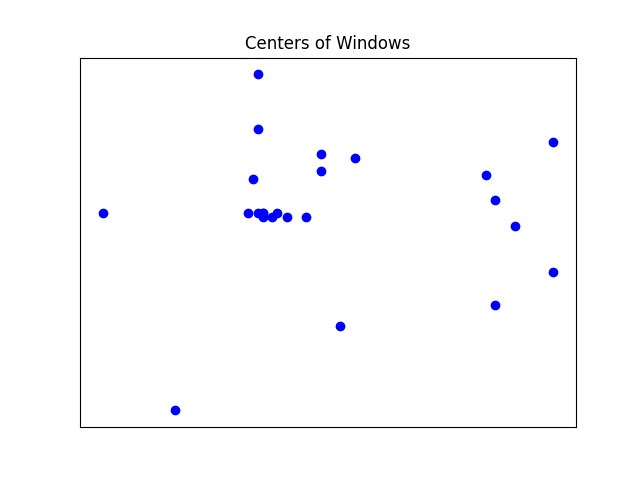
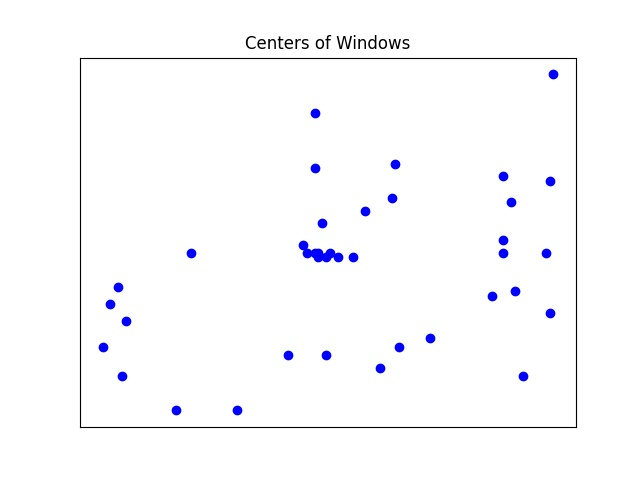
updated centers

diff --git a/locations.py b/locations.py
@@ -11,18 +11,31 @@ xs, ys = [], []
 for folder in os.listdir(labels_folder):
     if folder != '.DS_Store':
         for filename in os.listdir(f"{labels_folder}{folder}"):
+            max_imgs = 0
+            x_best = []
+            y_best = []
             if filename.endswith("YOLO"):
                 for _file in os.listdir(f"{labels_folder}{folder}/{filename}"):
                     with open(f"{labels_folder}{folder}/{filename}/{_file}") as f:
-                        lines = []
+                        num_lines = 0
+                        x_temps = []
+                        y_temps = []
                         for line in f:
+                            num_lines += 1
                             line = line.split()
                             label, rest = int(line[0]), line[1:]
                             xcenter, ycenter, w, h = map(float, rest)
                             # lines.append([int((xcenter-w/2)*WIDTH), int((ycenter-h/2)*HEIGHT), int((xcenter+w/2)*WIDTH), int((ycenter-h/2)*HEIGHT)])
-                            xs.append(int(xcenter*WIDTH))
-                            ys.append(int(ycenter*HEIGHT))
-                    break
+                            x_temps.append(int(xcenter*WIDTH))
+                            y_temps.append(int(ycenter*HEIGHT))
+                        if num_lines > max_imgs:
+                            max_imgs = num_lines
+                            x_best = x_temps.copy()
+                            y_best = y_temps.copy()
+            xs += x_best
+            ys += y_best
+
+print(len(xs))
 
 plt.scatter(xs, ys, c='b')
 
